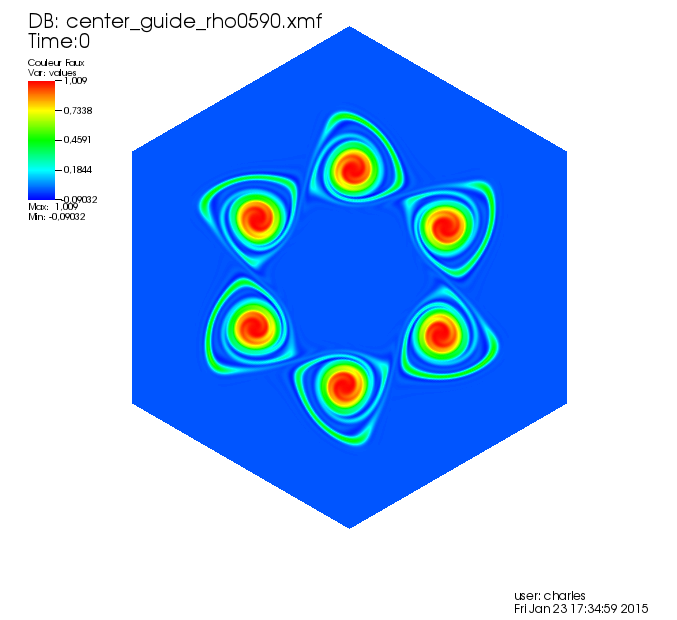
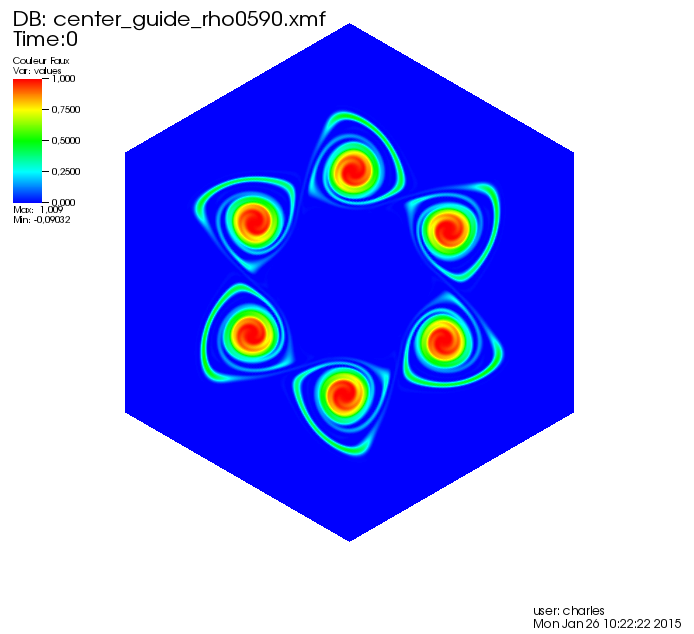
tex

diff --git a/selhex_docs/proceedings/SelHex_proceedings.tex b/selhex_docs/proceedings/SelHex_proceedings.tex
@@ -680,21 +680,17 @@ In Figure~\ref{fig:circ_convergence} we can see that for coarse meshes only the 
 
 Figure~\ref{fig:circ_performance} we can see that the level of performance of all the methods convergences quite quickly. It is also pretty obvious that even if the splines obtained more accuracy, the cost is more expensive than most of the Hermite Finite Element methods.
 
-\subsection{Guiding-center}
+\subsection{Diocotron instability test case}
 
+%
+%\begin{subnumcases}{\label{eqn:guiding_center}}
+%	\dfrac{\partial \rho}{\partial t} + E_{\perp} \cdot \nabla_{\mathbf{x}} \rho(\mathbf{x}, t) = 0\label{eqn:gc_vlasov}\\
+%	- \Delta \phi = \nabla \cdot E = \rho(\mathbf{x}, t) \label{eqn:gc_poisson}
+%\end{subnumcases}
+%
+%with $E = (E_x, E_y) = - \nabla \phi $ and $E_\perp = (-E_y, E_x)$.
 
-We recall the guiding-center model
-
-\begin{subnumcases}{\label{eqn:guiding_center}}
-	\dfrac{\partial \rho}{\partial t} + E_{\perp} \cdot \nabla_{\mathbf{x}} \rho(\mathbf{x}, t) = 0\label{eqn:gc_vlasov}\\
-	- \Delta \phi = \nabla \cdot E = \rho(\mathbf{x}, t) \label{eqn:gc_poisson}
-\end{subnumcases}
-
-with $E = (E_x, E_y) = - \nabla \phi $ and $E_\perp = (-E_y, E_x)$.
-
-
-We chose here to study the diocotron instability \cite{madaule:hal-00841504}.
-The initial density is given by :
+We recall the guiding-center model and choose the following initial density:
 \begin{equation*}
  \rho_0(\mathbf{x}_\bot)=
  \left\{
@@ -706,7 +702,11 @@ The initial density is given by :
 \end{equation*}
 with $\theta=\text{atan2}(y,x)$.
 
-\noindent In the following tests, we take $\varepsilon=0.001$, $r^-=5$, $r^+=8$, $\ell=6$, furthermore $dt=0.1$.
+With this we can study the diocotron instability test case \cite{madaule:hal-00841504}.
+
+\noindent As for the parameters, we take $\varepsilon=0.001$, $r^-=5$, $r^+=8$, $\ell=6$, furthermore $dt=0.1$.
+
+Let us note that as illustrated by figure \ref{fig:mode9} with epsilon big enough ( i.e. at least 0.1 ) the other modes can be visble for a time but they are not stable and we see the fusion or the apparition of vortexes until they are six modes. Here we can see the 9 modes turning into the 6 modes by fusion of vortexes. 
 
 \textcolor{red}{peut etre un paragraphe sur l'evolution de la densite, les 6 modes retrouves qqsoit eps, etc, commenter la figure 6}
 \begin{figure}[h!]
@@ -715,40 +715,34 @@ with $\theta=\text{atan2}(y,x)$.
 	\includegraphics[scale=0.15]{figures/gc_spl_3.png}
 	\includegraphics[scale=0.15]{figures/gc_spl_4.png}
 	\includegraphics[scale=0.15]{figures/gc_spl_5.png}
-	\caption{Time evolution of the guiding-center model, at times = }
+	\caption{\label{fig:mode9}  evolution of the guiding-center model, at times = }
 \end{figure}
 
 \begin{figure}[h!]
-	\includegraphics[scale=0.4]{figures/Relative_error_of_mass_160.png}
+	\includegraphics[scale=0.4]{figures/mass_cg.png}
 	\caption{Time evolution of the mass}
 \end{figure}
 
-
 \begin{figure}[h!]
-	\includegraphics[scale=0.3]{figures/l1norm_160.png}
-	\includegraphics[scale=0.3]{figures/l2norm_160.png}
+	\includegraphics[scale=0.3]{figures/l1norm_cg.png}
+	\includegraphics[scale=0.3]{figures/l2norm_cg.png}
 	\caption{Relative error of $L^1$ and $L^2$ norms}
 \end{figure}
 
-
 \begin{figure}[h!]
-	\includegraphics[scale=0.4]{figures/min_density_160.png}
+	\includegraphics[scale=0.4]{figures/min_cg.png}
 	\caption{Time evolution of the density's minimum}
 \end{figure}
 
-
-
-
 Both intepolation methods give similar results in terms of energy conservation and positivity conservation. One notices that if the box-splines conserve better the mass, the hermite element conserves better the norms.  
-
-
 
 \begin{figure}[h!]
 	\includegraphics[width=0.35\textwidth]{figures/oscillations_hermite.png}
 	\includegraphics[width=0.35\textwidth]{figures/oscillations_splines.png}
-	\caption{Comparaison of oscillations: on the left with Hermite Finite Elements and on the right with splines}
+	\caption{\label{fig:comp_osci} Comparaison of oscillations: on the left with Hermite Finite Elements and on the right with splines}
 \end{figure}
-\textcolor{red}{commenter les oscillations}
+No obvious differences are visible on figure \ref{fig:comp_osci} to the naked eye which makes the diagnostics all the more important to compare the results computed.
+
 %%-----------------------------
 %% Conclusion
 %%-----------------------------
